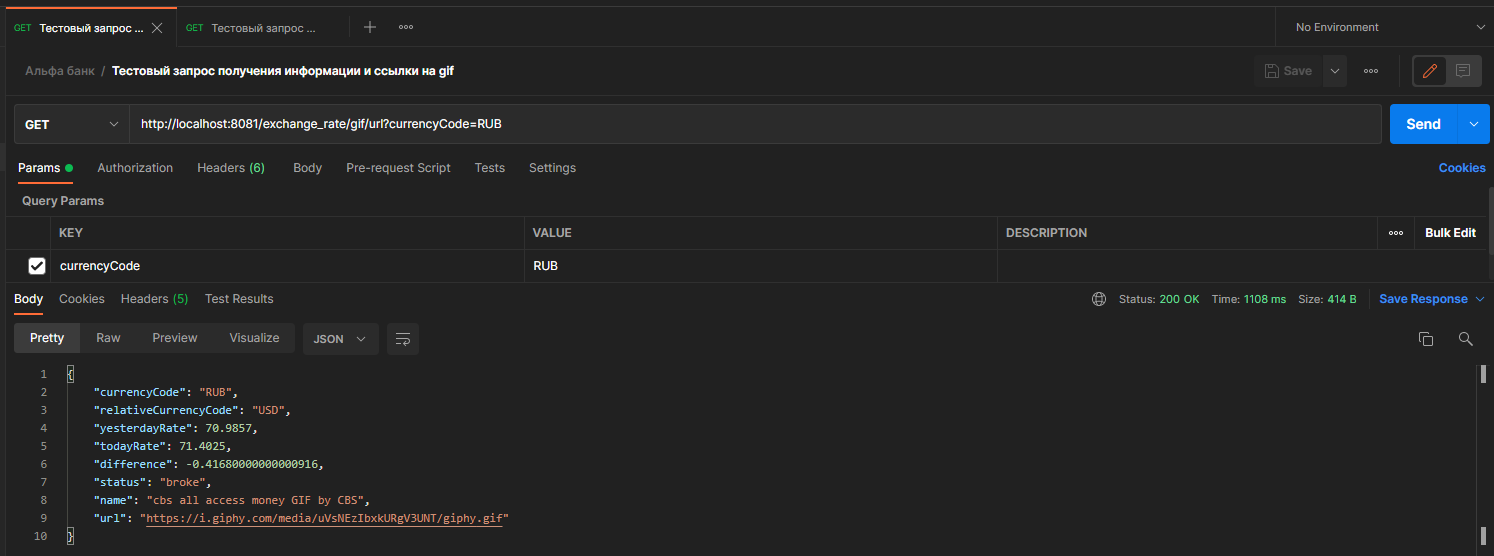
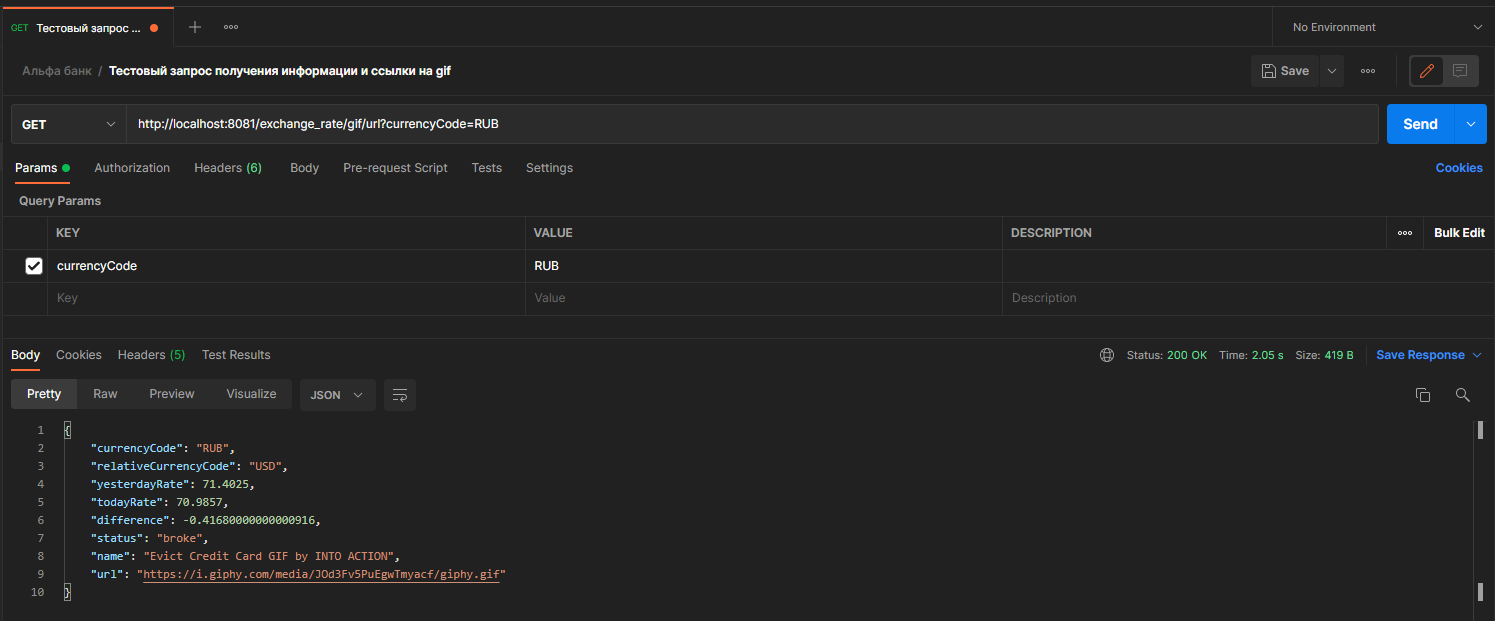
Написал тесты

diff --git a/src/test/java/com/application/alpha_task/AlphaTaskApplicationTests.java b/src/test/java/com/application/alpha_task/AlphaTaskApplicationTests.java
@@ -1,13 +1,171 @@
 package com.application.alpha_task;
 
-import org.junit.jupiter.api.Test;
+import com.application.alpha_task.client.CurrencyRateClient;
+import com.application.alpha_task.client.GifClient;
+import com.application.alpha_task.exception.EqualExchangeRateException;
+import com.application.alpha_task.query.response.*;
+import com.application.alpha_task.service.AlphaTaskService;
+import org.junit.jupiter.api.*;
+import org.mockito.Mockito;
+import org.springframework.beans.factory.annotation.Autowired;
 import org.springframework.boot.test.context.SpringBootTest;
+import org.springframework.boot.test.mock.mockito.MockBean;
+import org.springframework.test.util.ReflectionTestUtils;
+
+import java.util.HashMap;
 
 @SpringBootTest
 class AlphaTaskApplicationTests {
+    @MockBean
+    private CurrencyRateClient currencyRateClient;
+    @MockBean
+    private GifClient gifClient;
+    @Autowired
+    private AlphaTaskService alphaTaskService;
 
-    @Test
-    void contextLoads() {
+    @BeforeEach
+    void initTests() { // Инициализируем общие для всех тестов свойства приложения
+        ReflectionTestUtils.setField(alphaTaskService, "hoursAgo", 24);
+        ReflectionTestUtils.setField(alphaTaskService, "relativeWhichCurrency", "USD");
+        ReflectionTestUtils.setField(alphaTaskService, "gifAppId", "gifAppId");
     }
 
+    @Test
+    void richServiceTest() {
+        ReflectionTestUtils.setField(alphaTaskService, "exchangeAppId", "exchangeAppIdRich");
+        // Тестовый случай rich
+        Mockito.when(currencyRateClient.getExchangeRates("exchangeAppIdRich", "USD", "RUB")).thenReturn(
+                new ExchangeRateResponse(
+                        "disclaimer",
+                        "license",
+                        1,
+                        "USD",
+                        new HashMap<String, Double>() {{
+                            put("RUB", 73.2);
+                        }}
+                )
+        );
+        Mockito.when(currencyRateClient.getYesterdayExchangeRate(
+                ReflectionTestUtils.invokeMethod(alphaTaskService, "getYesterdayDate"), "exchangeAppIdRich", "USD", "RUB")).thenReturn(
+                new ExchangeRateResponse(
+                        "disclaimer",
+                        "license",
+                        1,
+                        "USD",
+                        new HashMap<String, Double>() {{
+                            put("RUB", 72.67);
+                        }}
+                )
+        );
+        // Симулируем получение данных о gif с сервиса giphy для ситуации rich
+        GiphyResponseData giphyResponseData = new GiphyResponseData();
+        giphyResponseData.setImage_original_url("urlRich");
+        giphyResponseData.setTitle("gifRichName");
+        GiphyResponse giphyResponseRich = new GiphyResponse(giphyResponseData, new GiphyResponseMetaData());
+        Mockito.when(gifClient.getRandomGif("gifAppId", "rich", "r")).thenReturn(
+                giphyResponseRich
+        );
+        UrlGifResponse urlGifResponse = alphaTaskService.getExchangeRateGif("RUB");
+        Assertions.assertEquals("urlRich", urlGifResponse.getUrl());
+        Assertions.assertEquals("gifRichName", urlGifResponse.getName());
+    }
+
+    @Test
+    void brokeServiceTest() {
+        // Тестовый случай broke
+        ReflectionTestUtils.setField(alphaTaskService, "exchangeAppId", "exchangeAppIdBroke");
+        Mockito.when(currencyRateClient.getExchangeRates("exchangeAppIdBroke", "USD", "RUB"))
+                .thenReturn(new ExchangeRateResponse(
+                                "disclaimer",
+                                "license",
+                                1,
+                                "USD",
+                                new HashMap<String, Double>() {{
+                                    put("RUB", 72.3);
+                                }}
+                        )
+                );
+        Mockito.when(currencyRateClient.getYesterdayExchangeRate(
+                ReflectionTestUtils.invokeMethod(alphaTaskService, "getYesterdayDate"),
+                "exchangeAppIdBroke", "USD", "RUB")).thenReturn(new ExchangeRateResponse(
+                        "disclaimer",
+                        "license",
+                        1,
+                        "USD",
+                        new HashMap<String, Double>() {{
+                            put("RUB", 74.2);
+                        }}
+                )
+        );
+        GiphyResponseData giphyResponseData = new GiphyResponseData();
+        giphyResponseData.setImage_original_url("urlBroke");
+        giphyResponseData.setTitle("gifBrokeName");
+        GiphyResponse giphyResponseBroke = new GiphyResponse(giphyResponseData, new GiphyResponseMetaData());
+        Mockito.when(gifClient.getRandomGif("gifAppId", "broke", "r")).thenReturn(
+                giphyResponseBroke
+        );
+        UrlGifResponse urlGifResponse = alphaTaskService.getExchangeRateGif("RUB");
+        Assertions.assertEquals("urlBroke", urlGifResponse.getUrl());
+        Assertions.assertEquals("gifBrokeName", urlGifResponse.getName());
+    }
+
+    @Test
+    void equalServiceTest() {
+        // Тестовый случай equal
+        ReflectionTestUtils.setField(alphaTaskService, "exchangeAppId", "exchangeAppIdEqual");
+        Mockito.when(currencyRateClient.getExchangeRates("exchangeAppIdEqual", "USD", "RUB"))
+                .thenReturn(new ExchangeRateResponse(
+                                "disclaimer",
+                                "license",
+                                1,
+                                "USD",
+                                new HashMap<String, Double>() {{
+                                    put("RUB", 71.8);
+                                }}
+                        )
+                );
+        Mockito.when(currencyRateClient.getYesterdayExchangeRate(
+                ReflectionTestUtils.invokeMethod(alphaTaskService, "getYesterdayDate"),
+                "exchangeAppIdEqual", "USD", "RUB")).thenReturn(new ExchangeRateResponse(
+                        "disclaimer",
+                        "license",
+                        1,
+                        "USD",
+                        new HashMap<String, Double>() {{
+                            put("RUB", 71.8);
+                        }}
+                )
+        );
+        Assertions.assertThrows(
+                EqualExchangeRateException.class, () -> alphaTaskService.getExchangeRateGif("RUB")
+        );
+    }
+
+    @Test
+    void incorrectCurrencyCodeServiceTest() {
+        // Тестовый случай broke
+        ReflectionTestUtils.setField(alphaTaskService, "exchangeAppId", "exchangeAppIdBroke");
+        Mockito.when(currencyRateClient.getExchangeRates("exchangeAppIdBroke", "USD", "123"))
+                .thenReturn(new ExchangeRateResponse(
+                                "disclaimer",
+                                "license",
+                                1,
+                                "USD",
+                                new HashMap<>()
+                        )
+                );
+        Mockito.when(currencyRateClient.getYesterdayExchangeRate(
+                ReflectionTestUtils.invokeMethod(alphaTaskService, "getYesterdayDate"),
+                "exchangeAppIdBroke", "USD", "123")).thenReturn(new ExchangeRateResponse(
+                        "disclaimer",
+                        "license",
+                        1,
+                        "USD",
+                        new HashMap<>()
+                )
+        );
+        Assertions.assertThrows(
+                NullPointerException.class, () -> alphaTaskService.getExchangeRateGif("123")
+        );
+    }
 }

diff --git a/src/test/java/com/application/alpha_task/AlphaTaskControllerTests.java b/src/test/java/com/application/alpha_task/AlphaTaskControllerTests.java
@@ -1,0 +1,69 @@
+package com.application.alpha_task;
+
+import com.application.alpha_task.query.request.GifExchangeRateRequest;
+import com.application.alpha_task.query.response.UrlGifResponse;
+import com.application.alpha_task.service.AlphaTaskService;
+import org.junit.jupiter.api.Test;
+import org.mockito.Mockito;
+import org.springframework.beans.factory.annotation.Autowired;
+import org.springframework.boot.test.autoconfigure.web.servlet.AutoConfigureMockMvc;
+import org.springframework.boot.test.context.SpringBootTest;
+import org.springframework.boot.test.mock.mockito.MockBean;
+import org.springframework.http.MediaType;
+import org.springframework.test.web.servlet.MockMvc;
+
+import static org.springframework.test.web.servlet.request.MockMvcRequestBuilders.get;
+import static org.springframework.test.web.servlet.result.MockMvcResultMatchers.*;
+
+@SpringBootTest
+@AutoConfigureMockMvc
+public class AlphaTaskControllerTests {
+    @MockBean
+    private AlphaTaskService alphaTaskService;
+    @Autowired
+    private MockMvc mockMvc;
+
+    @Test
+    void correctWorkControllerTest() throws Exception {
+        UrlGifResponse urlGifResponse = new UrlGifResponse(
+                "RUB",
+                "USD",
+                71.2,
+                71.5,
+                71.2 - 71.5,
+                "broke",
+                "gifName",
+                "gifUrl"
+        );
+        Mockito.when(alphaTaskService.getExchangeRateGif("RUB")).thenReturn(urlGifResponse);
+        mockMvc.perform(
+                get("/exchange_rate/gif/url")
+                        .param("currencyCode", "RUB")
+                        .flashAttr("gifExchangeRateRequest", new GifExchangeRateRequest()))
+                .andExpect(status().isOk())
+                .andExpect(content().contentTypeCompatibleWith(MediaType.APPLICATION_JSON))
+                .andExpect(jsonPath("url").value("gifUrl"))
+                .andExpect(jsonPath("name").value("gifName")
+                );
+    }
+
+    @Test
+    void emptyCurrencyCodeControllerTest() throws Exception {
+        mockMvc.perform(
+                get("/exchange_rate/gif/url")
+                        .param("currencyCode", "")
+                        .flashAttr("gifExchangeRateRequest", new GifExchangeRateRequest()))
+                .andExpect(status().isBadRequest());
+    }
+
+    @Test
+    void incorrectFormatCurrencyCodeControllerTest() throws Exception {
+        mockMvc.perform(
+                get("/exchange_rate/gif/url")
+                        .param("currencyCode", "RUB2")
+                        .flashAttr("gifExchangeRateRequest", new GifExchangeRateRequest()))
+                .andExpect(status().isBadRequest());
+    }
+
+
+}

diff --git a/src/main/java/com/application/alpha_task/service/AlphaTaskService.java b/src/main/java/com/application/alpha_task/service/AlphaTaskService.java
@@ -21,6 +21,8 @@ public class AlphaTaskService {
     private String exchangeAppId;
     @Value("${gif.app.id}")
     private String gifAppId;
+    @Value("${hours.ago}")
+    private Integer hoursAgo;
 
     private final CurrencyRateClient currencyRateClient;
     private final GifClient gifClient;
@@ -51,8 +53,8 @@ public class AlphaTaskService {
             return new UrlGifResponse(
                     currencyCode,
                     relativeWhichCurrency,
-                    today.getRates().get(currencyCode),
                     yesterday.getRates().get(currencyCode),
+                    today.getRates().get(currencyCode),
                     difference,
                     status,
                     giphyResponse.getData().getTitle(),
@@ -65,8 +67,8 @@ public class AlphaTaskService {
             return new UrlGifResponse(
                     currencyCode,
                     relativeWhichCurrency,
-                    today.getRates().get(currencyCode),
                     yesterday.getRates().get(currencyCode),
+                    today.getRates().get(currencyCode),
                     difference,
                     status,
                     giphyResponse.getData().getTitle(),
@@ -78,7 +80,7 @@ public class AlphaTaskService {
 
     private String getYesterdayDate() {
         // Так как текущий курс определяется за последние полные сутки
-        ZonedDateTime yesterday = ZonedDateTime.now().minusHours(48);
-        return  yesterday.getYear() + "-" + yesterday.getMonthValue() + "-" + yesterday.getDayOfMonth();
+        ZonedDateTime yesterday = ZonedDateTime.now().minusHours(hoursAgo);
+        return yesterday.getYear() + "-" + yesterday.getMonthValue() + "-" + yesterday.getDayOfMonth();
     }
 }

diff --git a/src/main/java/com/application/alpha_task/exception/EqualExchangeRateException.java b/src/main/java/com/application/alpha_task/exception/EqualExchangeRateException.java
@@ -1,10 +1,8 @@
 package com.application.alpha_task.exception;
 
-import lombok.Data;
 import org.springframework.http.HttpStatus;
 import org.springframework.web.bind.annotation.ResponseStatus;
 
-@Data
 @ResponseStatus(value= HttpStatus.NO_CONTENT)
 public class EqualExchangeRateException extends RuntimeException {
     public EqualExchangeRateException(String message) {

diff --git a/src/main/java/com/application/alpha_task/query/request/GifExchangeRateRequest.java b/src/main/java/com/application/alpha_task/query/request/GifExchangeRateRequest.java
@@ -1,11 +1,13 @@
 package com.application.alpha_task.query.request;
 
 import lombok.Data;
+import lombok.RequiredArgsConstructor;
 
 import javax.validation.constraints.NotBlank;
 import javax.validation.constraints.Size;
 
 @Data
+@RequiredArgsConstructor
 public class GifExchangeRateRequest {
     @NotBlank
     @Size(min = 3, max = 3)

diff --git a/src/main/java/com/application/alpha_task/query/response/GiphyResponse.java b/src/main/java/com/application/alpha_task/query/response/GiphyResponse.java
@@ -2,9 +2,11 @@ package com.application.alpha_task.query.response;
 
 import lombok.AllArgsConstructor;
 import lombok.Data;
+import lombok.NoArgsConstructor;
 
 @Data
 @AllArgsConstructor
+@NoArgsConstructor
 public class GiphyResponse {
     private GiphyResponseData data;
     private GiphyResponseMetaData meta;

diff --git a/src/main/java/com/application/alpha_task/query/response/GiphyResponseData.java b/src/main/java/com/application/alpha_task/query/response/GiphyResponseData.java
@@ -1,12 +1,12 @@
 package com.application.alpha_task.query.response;
 
-import lombok.AllArgsConstructor;
-import lombok.Data;
+import lombok.*;
 
 import java.util.HashMap;
 
 @Data
 @AllArgsConstructor
+@NoArgsConstructor
 public class GiphyResponseData {
     private String type;
     private String id;

diff --git a/src/main/java/com/application/alpha_task/query/response/GiphyResponseMetaData.java b/src/main/java/com/application/alpha_task/query/response/GiphyResponseMetaData.java
@@ -2,9 +2,11 @@ package com.application.alpha_task.query.response;
 
 import lombok.AllArgsConstructor;
 import lombok.Data;
+import lombok.NoArgsConstructor;
 
 @Data
 @AllArgsConstructor
+@NoArgsConstructor
 public class GiphyResponseMetaData {
     private String msg;
     private String status;

diff --git a/src/main/java/com/application/alpha_task/query/response/UrlGifResponse.java b/src/main/java/com/application/alpha_task/query/response/UrlGifResponse.java
@@ -2,8 +2,10 @@ package com.application.alpha_task.query.response;
 
 import lombok.AllArgsConstructor;
 import lombok.Data;
+import lombok.NoArgsConstructor;
 
 @Data
+@NoArgsConstructor
 @AllArgsConstructor
 public class UrlGifResponse {
     private String currencyCode;

diff --git a/README.md b/README.md
@@ -6,11 +6,14 @@
 Все конфигурируемые параметры приложения вынесены в файл свойств Spring Boot application.properties.
 Параметры сборки приложения в docker-контейнер находятся в Dockerfile в корне проекта.
 
+Примечание: в бесплатной версии API курса валют, определение курса происходит только относительно доллара (USD). Предусмотрено изменение валюты,
+относительно которой определяется курс, посредством измнения свойства приложения relative.which.currency.
+
 Инструкция по сборке и запуску приложения:
 1) Открыть проект в Intellij IDEA.
-2) В терминале проекта выполнить команду gradlew build
-3) В терминале проекта выполнить команду docker build -t alpha:0.0.1 .
-4) В терминале проекта выполнить команду docker run -d -p 8081:8080 -t alpha:0.0.1
+2) В терминале проекта выполнить команду "gradlew build"
+3) В терминале проекта выполнить команду "docker build -t alpha:0.0.1 ."
+4) В терминале проекта выполнить команду "docker run -d -p 8081:8080 -t alpha:0.0.1"
 5) После этого станет доступно обращение к API проекта в докер-контейнере по адресу localhost:8081
 
 Инструкция по взаимодействию с API приложения:
@@ -41,3 +44,6 @@
 * Гифка, полученная случайным образом в зависимости от динамики курса валют.
 
 ![img2.png](img2.png) 
+
+Если курс валют не обновился со вчерашнего дня (вчерашний курс совпадает с сегодняшним), будет возвращена ошибка 204 (No content). Чтобы попробовать сопоставить сегодняшний курс с более ранней датой,
+необходимо изменить свойство hours.ago в application.properties (По умолчанию 24 часа назад, то есть вчерашний день).
